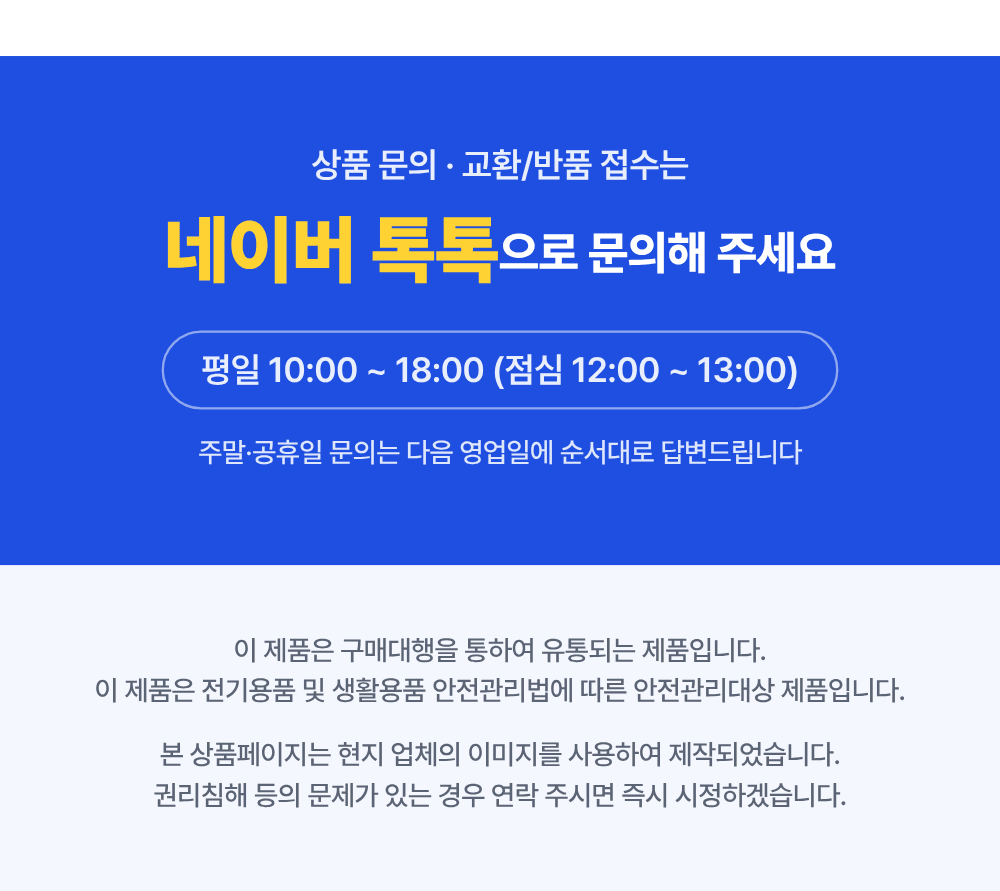
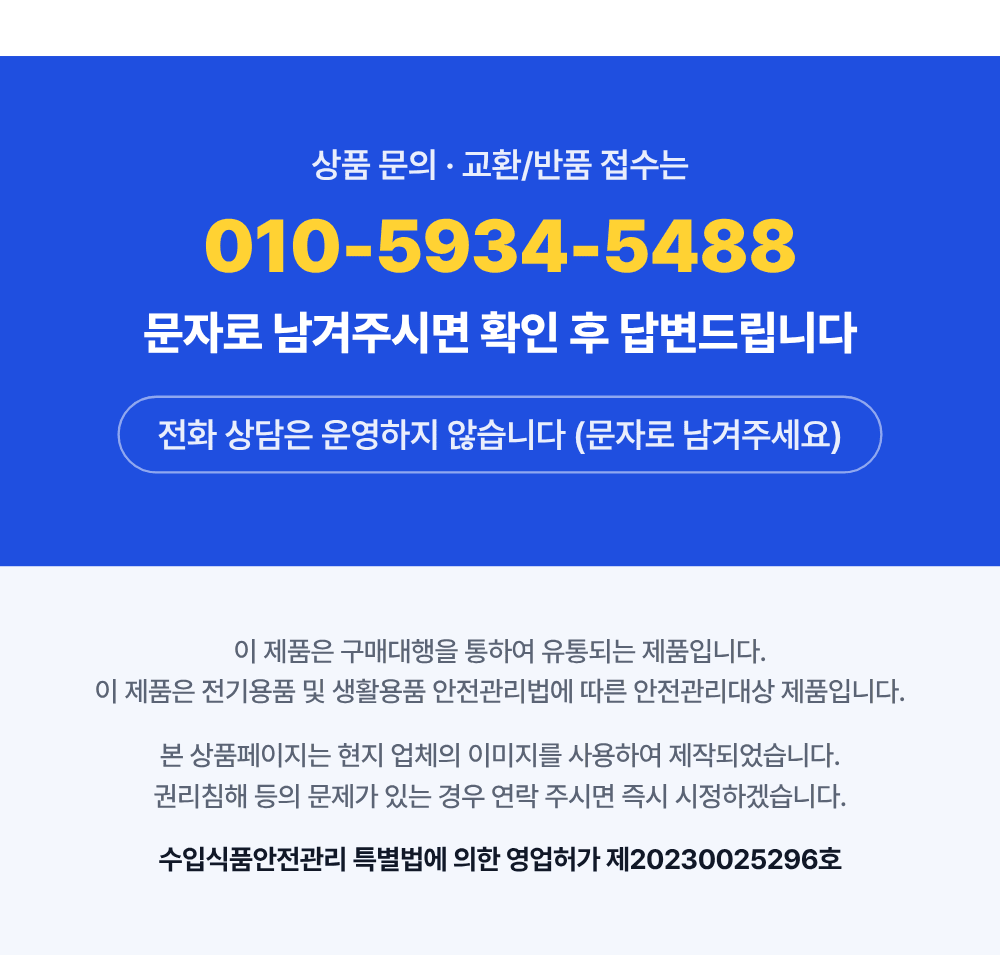
고객센터를 문자 전용으로 변경, 영업허가번호 추가
- 톡톡·운영시간 제거, 010-5934-5488 문자 접수 / 전화 상담 미운영 안내
- 교환·반품 접수 문구를 고객센터 문자로 변경
- 수입식품안전관리 특별법 영업허가 제20230025296호 추가

Claude-Session: https://claude.ai/code/session_01PE2ziTJ29XNj6qrJ9hNtvD

diff --git a/onnuri-design/src/bottom.html b/onnuri-design/src/bottom.html
@@ -97,7 +97,7 @@
   .cs { background: var(--main); color: #fff; text-align: center; padding: 72px 40px 80px; }
   .cs .m { color: rgba(255,255,255,.9); }
   .cs .l { margin-top: 10px; }
-  .cs .l .c-point { font-size: var(--xl); font-weight: 900; vertical-align: -6px; }
+  .cs .tel { margin-top: 10px; font-size: var(--xl); font-weight: 900; color: var(--point); letter-spacing: -0.01em; line-height: 1.2; }
   .cs .time { margin-top: 28px; display: inline-block; border: 2px solid rgba(255,255,255,.5); border-radius: 999px; padding: 10px 32px; }
   .cs .s { margin-top: 20px; color: rgba(255,255,255,.85); }
 
@@ -229,11 +229,11 @@
   <div class="pill">교환·반품 안내</div>
   <div class="box-in">
     <div class="rcard">
-      <div class="free"><span class="tag2 me">무상</span><div class="m">파손·오배송·제품 결함</div><div class="s">무상 교환·환불해 드립니다.<br>수령 후 7일 이내 사진 또는 동영상과 함께 접수해 주세요.</div></div>
+      <div class="free"><span class="tag2 me">무상</span><div class="m">파손·오배송·제품 결함</div><div class="s">무상 교환·환불해 드립니다.<br>수령 후 7일 이내 고객센터로 사진 또는 동영상과 함께 접수해 주세요.</div></div>
       <div class="paid"><span class="tag2 you">구매자 부담</span><div class="m">단순 변심</div><div class="s">왕복 배송비를 구매자가 부담합니다. 해외 왕복 운송이 포함되어 부피·중량에 따라 금액이 다르며, 접수 시 안내해 드립니다.</div></div>
     </div>
     <ul class="bul m">
-      <li>교환·반품은 <b>상품 수령 후 7일 이내</b>에 톡톡으로 먼저 접수해 주세요.</li>
+      <li>교환·반품은 <b>상품 수령 후 7일 이내</b>에 고객센터 문자로 먼저 접수해 주세요.</li>
       <li>반품 회수는 당사에서 진행합니다. <b>사전 연락 없이 보내신 상품은 수취 거부</b>되며, 이후 발생하는 비용과 문제는 책임지지 않습니다.</li>
       <li>배송 중 생길 수 있는 미세한 스크래치, 찌그러짐, 마감·접착 흔적, 박스 눌림·손상은 무상 교환·환불 대상이 아닙니다.</li>
       <li>사용·세탁하셨거나 택·본품 박스가 훼손된 경우, 위생 상품을 개봉한 경우, 기능상 문제가 없는 경미한 하자는 반품이 어렵습니다.</li>
@@ -291,17 +291,15 @@
 <!-- 고객센터 -->
 <div class="cs">
   <div class="m">상품 문의 · 교환/반품 접수는</div>
-  <div class="l"><span class="c-point">네이버 톡톡</span>으로 문의해 주세요</div>
-  <div class="time m">평일 10:00 ~ 18:00 (점심 12:00 ~ 13:00)</div>
-  <div class="s">주말·공휴일 문의는 다음 영업일에 순서대로 답변드립니다</div>
+  <div class="tel">010-5934-5488</div>
+  <div class="l">문자로 남겨주시면 확인 후 답변드립니다</div>
+  <div class="time m">전화 상담은 운영하지 않습니다 (문자로 남겨주세요)</div>
 </div>
 
 <!-- 법적 고지 -->
 <div class="legal s">
   <p>이 제품은 구매대행을 통하여 유통되는 제품입니다.<br>이 제품은 전기용품 및 생활용품 안전관리법에 따른 안전관리대상 제품입니다.</p>
   <p>본 상품페이지는 현지 업체의 이미지를 사용하여 제작되었습니다.<br>권리침해 등의 문제가 있는 경우 연락 주시면 즉시 시정하겠습니다.</p>
-  <!-- 수입식품(식품·건강식품 등)을 판매하는 경우 아래 줄의 주석을 풀고 번호를 넣으세요
-  <p class="lic">수입식품안전관리 특별법에 의한 영업등록 제 0000000000 호</p>
-  -->
+  <p class="lic">수입식품안전관리 특별법에 의한 영업허가 제20230025296호</p>
 </div>
 </body></html>
